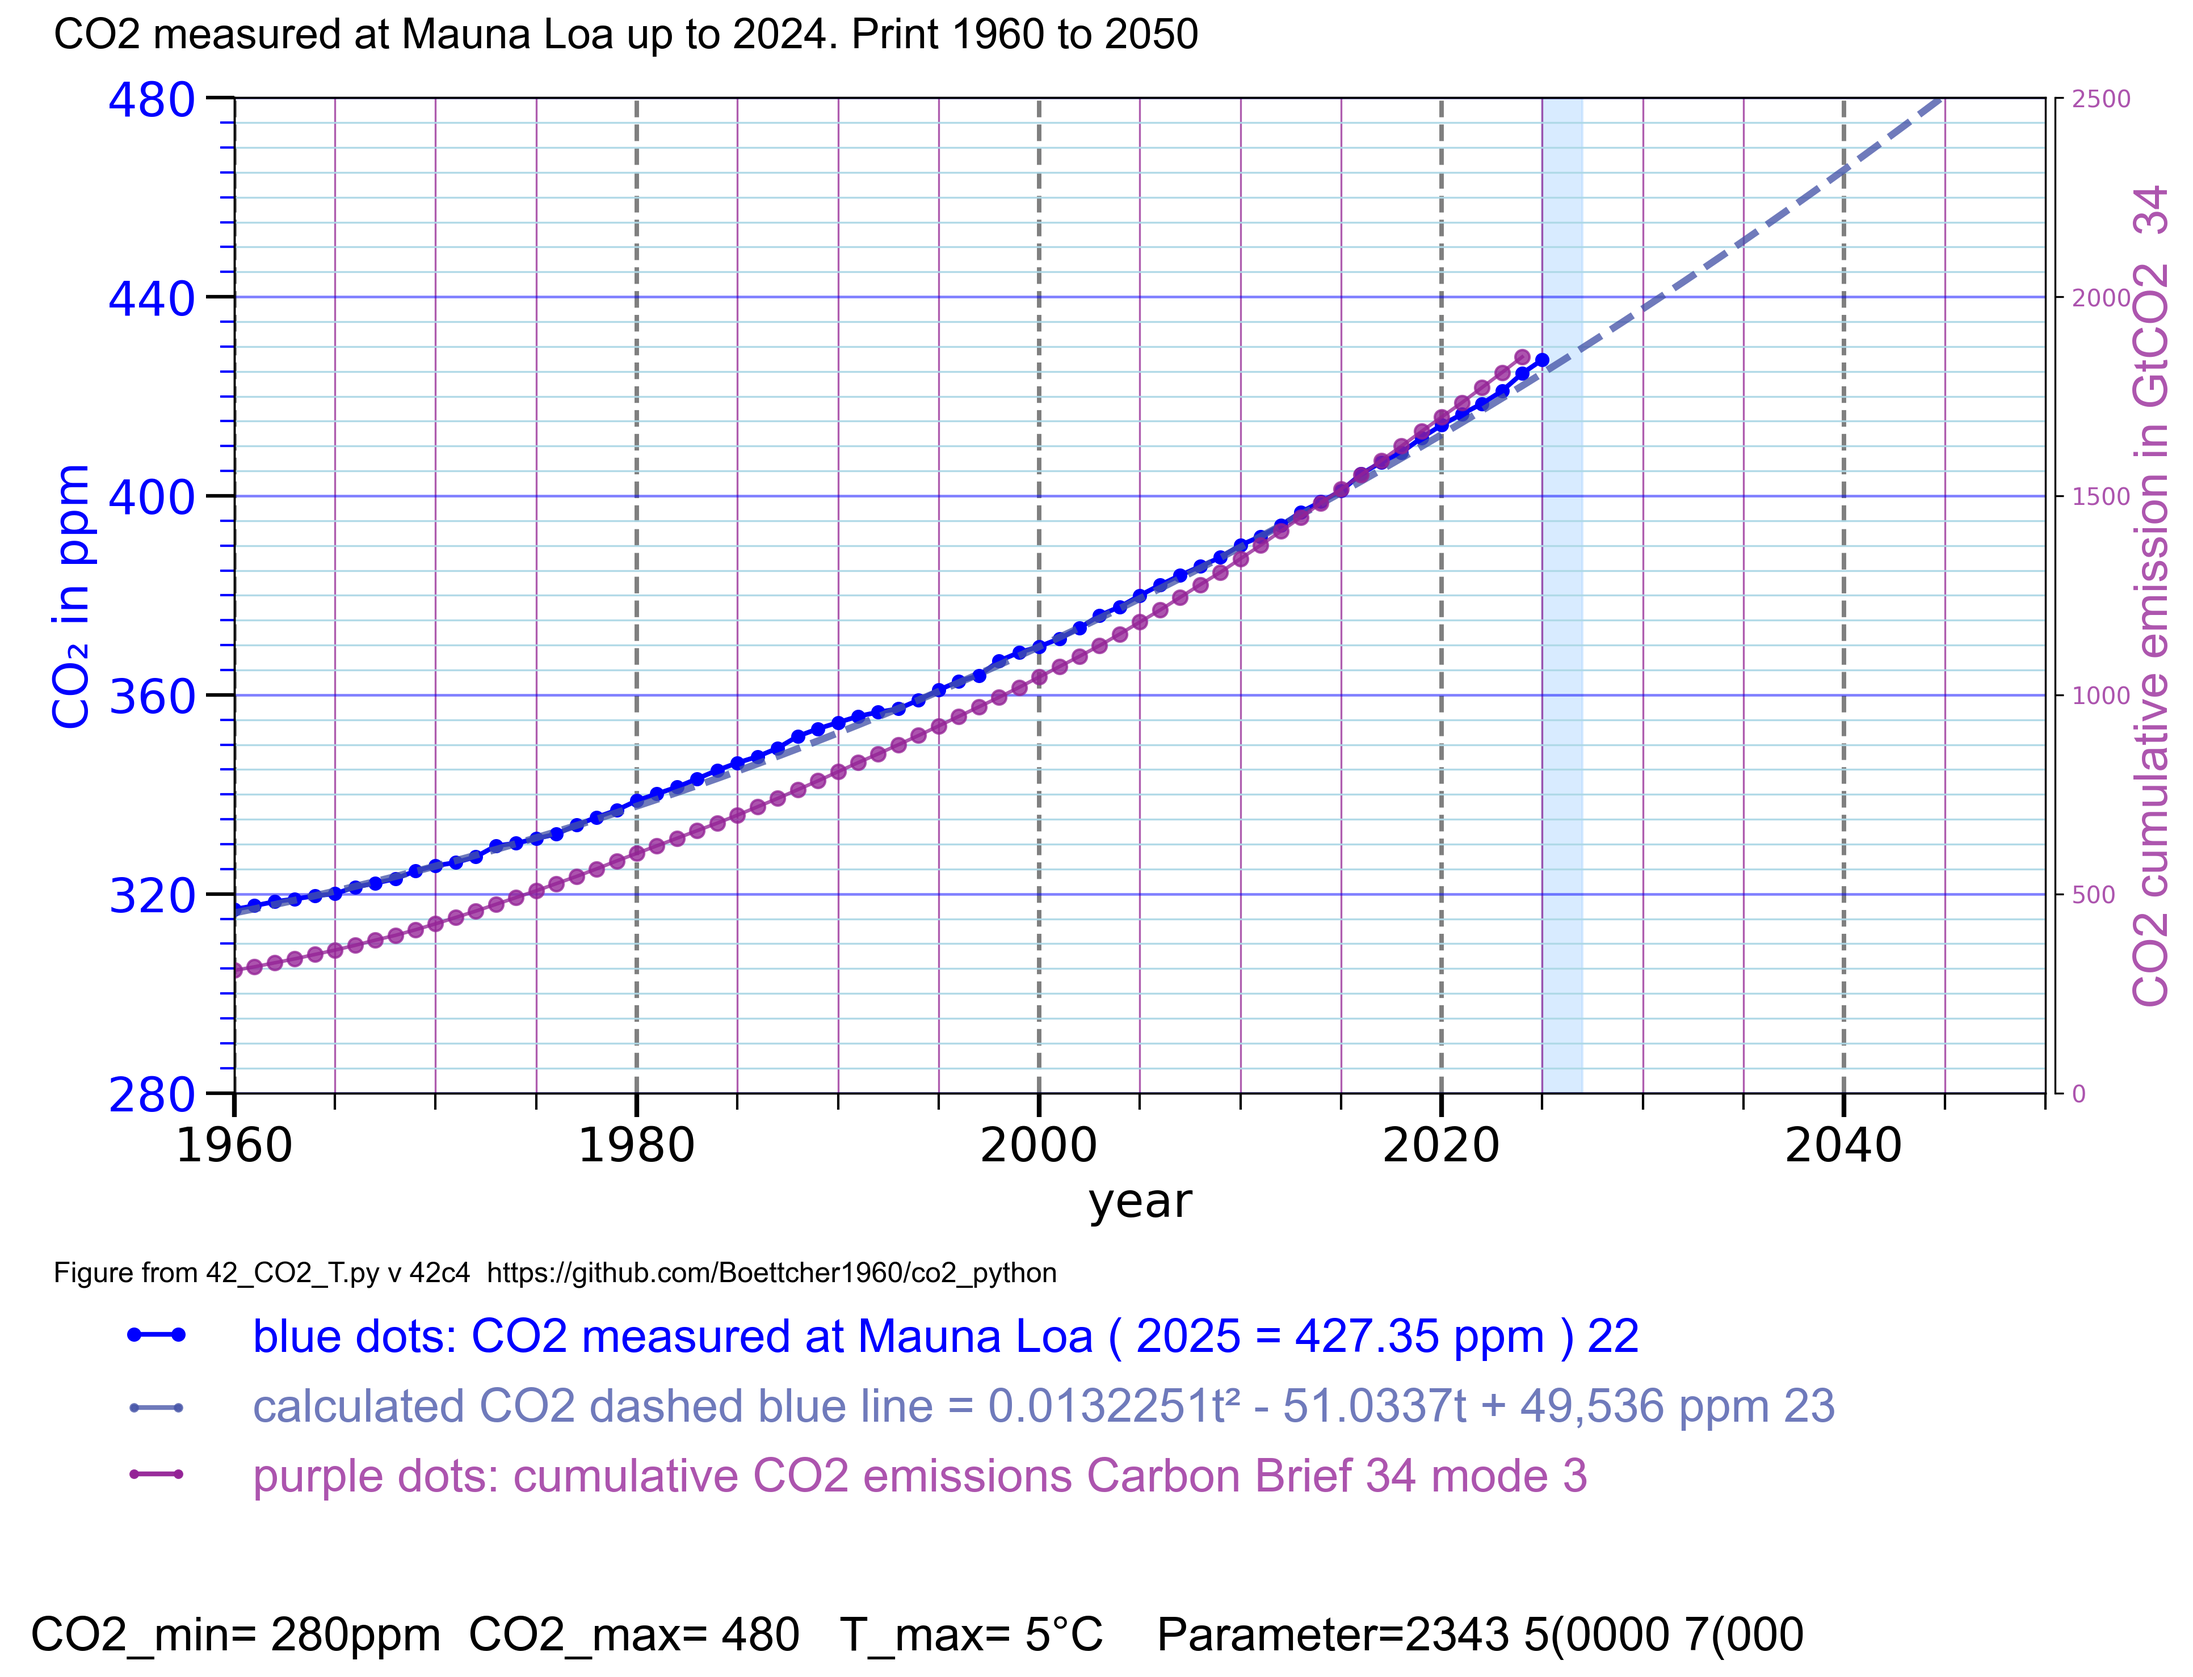
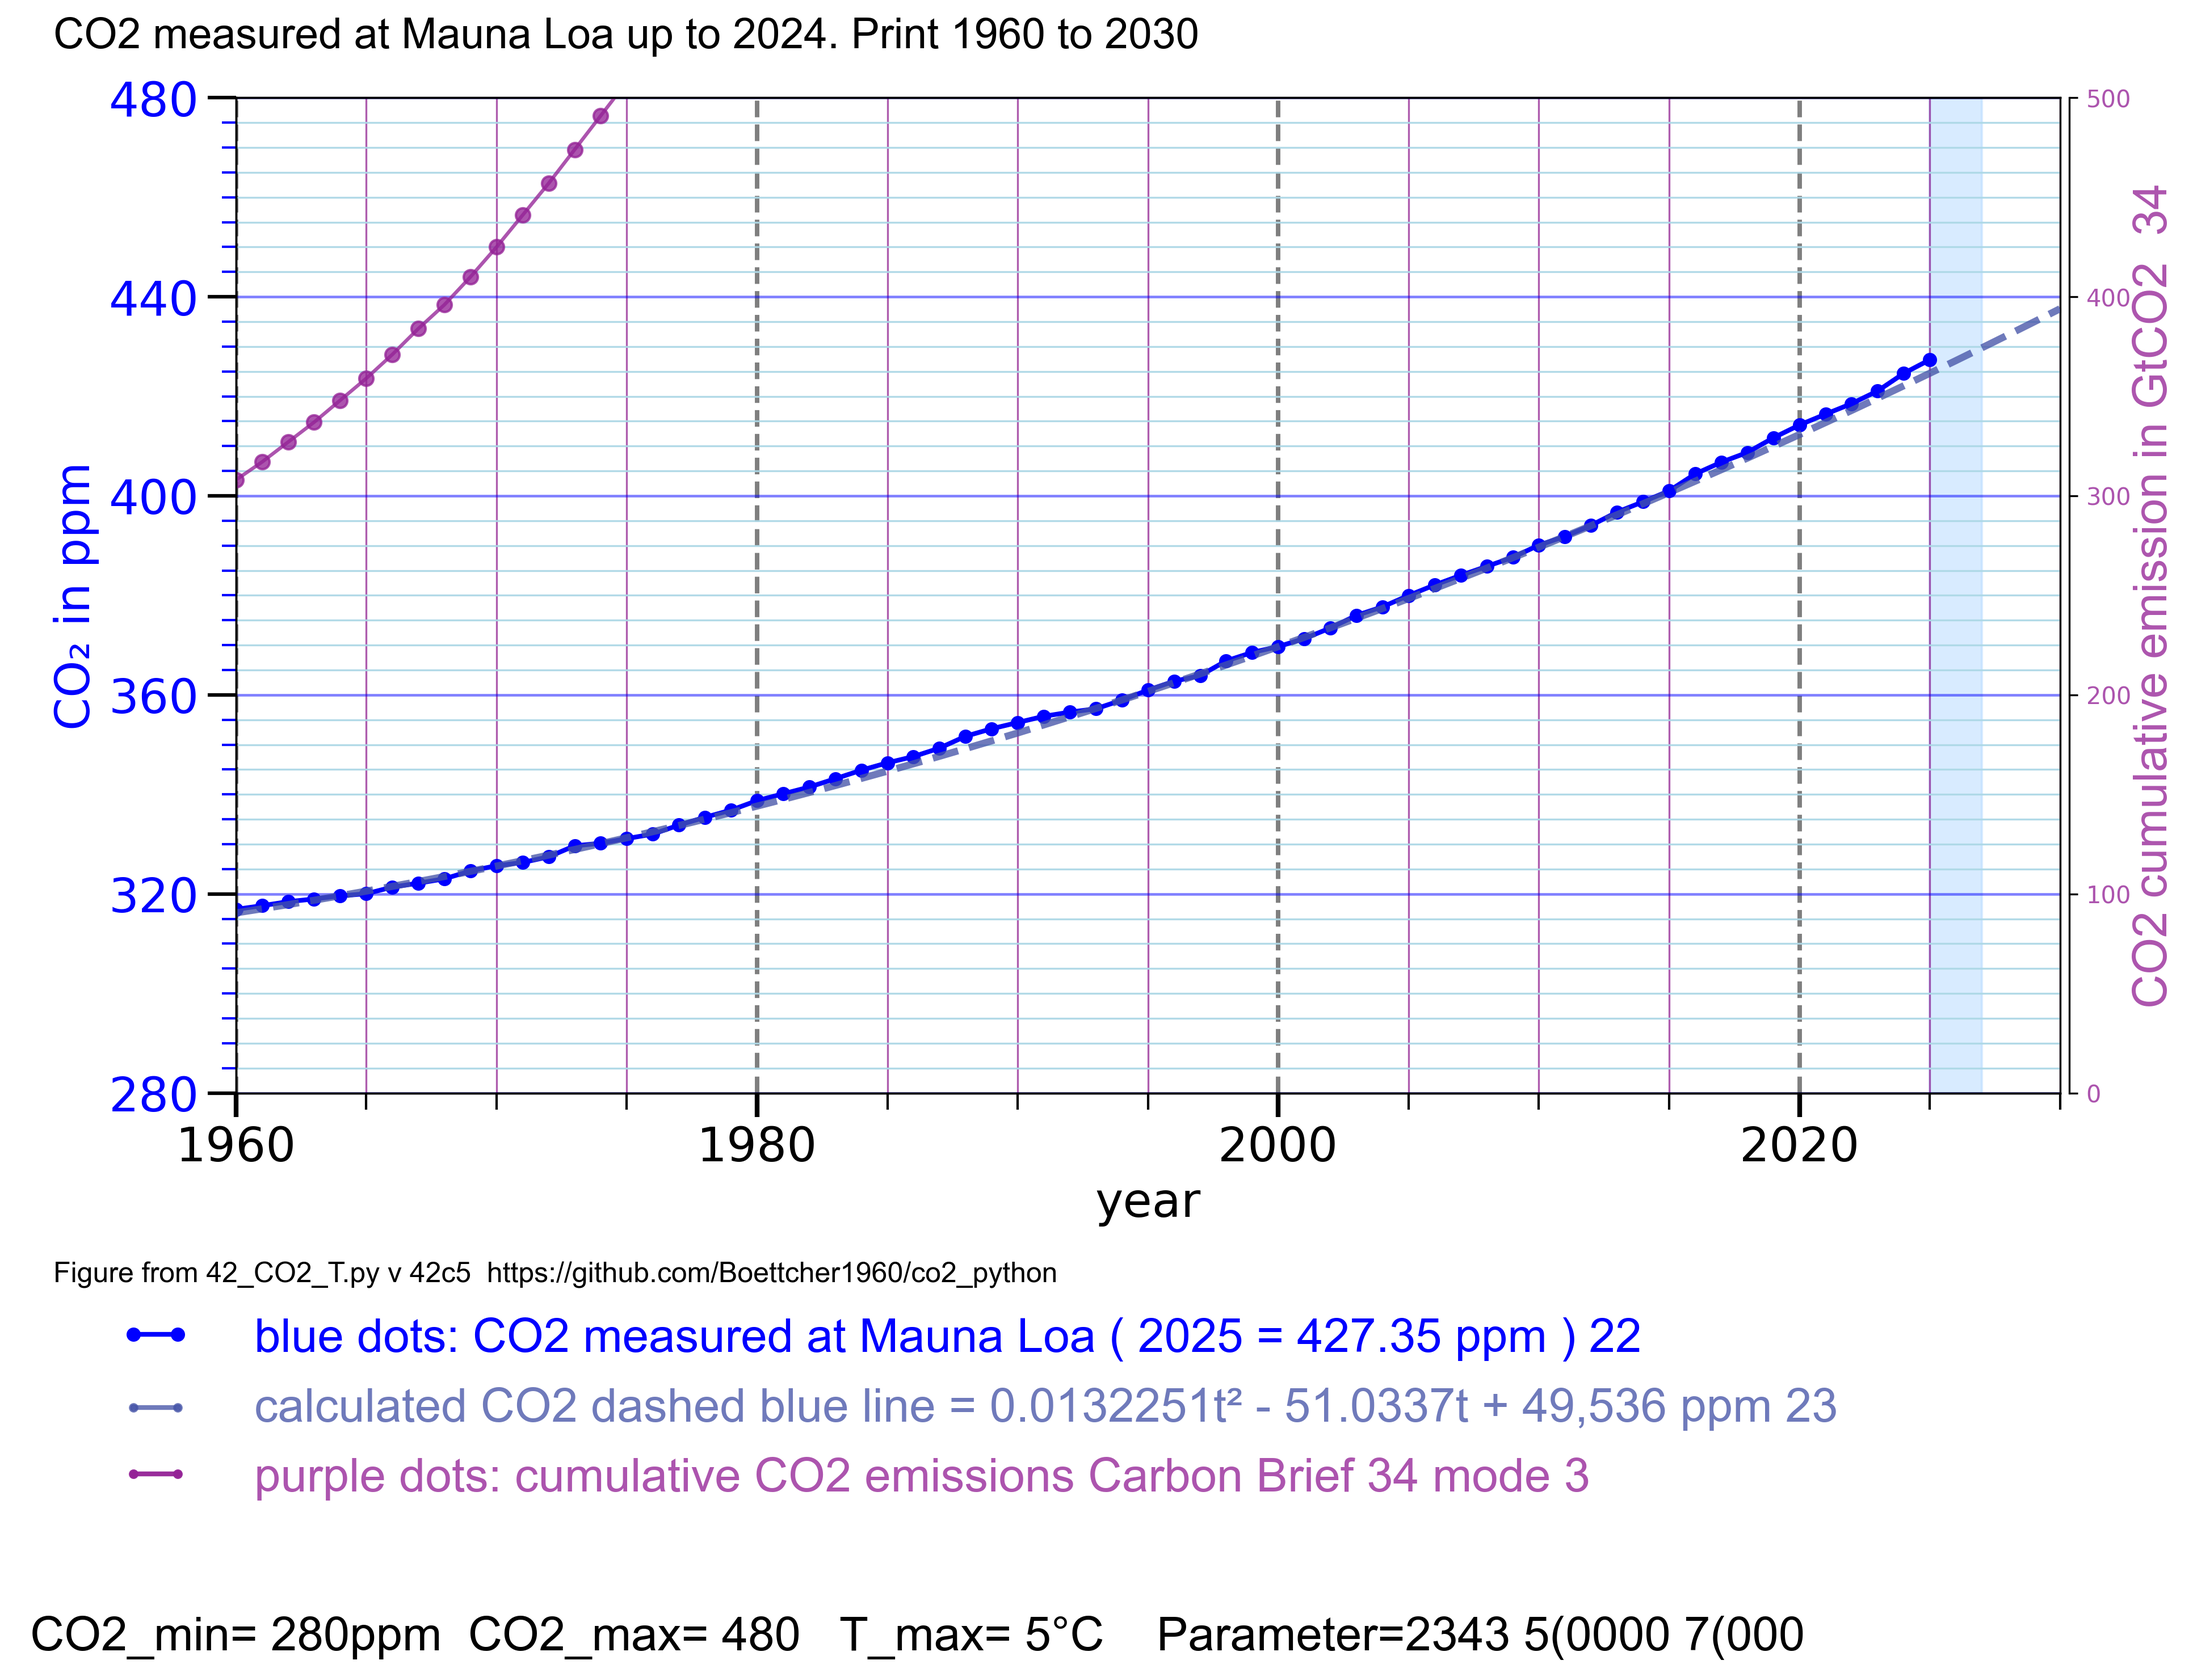
v = "42c5" # may be bug in scaling 3.4 plot34_CO2_emission summed

diff --git a/42_CO2_T.py b/42_CO2_T.py
@@ -1,5 +1,5 @@
 # 42_CO2_T.py 
-v = "42c4" # 3 curves
+v = "42c5" # may be bug in scaling 3.4 plot34_CO2_emission summed
 # Thomas Boettcher
 # part 1 configure 
 # part 2.2 plot CO2 Mauna Loa
@@ -71,7 +71,7 @@ y_Tmin = 0 # min value °C
 y_Tmax = 5 # 4 # max value C
 
 x_anf = 1960 # 1960 2000 
-x_end = 2050 # 2200 2026 
+x_end = 2030 # 2200 2026 
 
 # 1.4.5 scale the text rows below the plot field
 tr1x = -0.09 # text row 1 x value -.3...1 -0.12
@@ -137,8 +137,11 @@ years22 = list(range(1960, x_end))
 if x_anf < 1960:
    start = years22.index(1960)
 else:
-   start = years22.index(x_anf)    
-end = years22.index(2025) + 1
+   start = years22.index(x_anf)   
+if x_end > 2024:
+   end = years22.index(2025) + 1
+else: end = 20
+
 years22_subset = years22[start:end]
 # -----------------------------
 # 2.2.3 Kurve1 CO₂ Daten https://gml.noaa.gov/webdata/ccgg/trends/co2/co2_annmean_mlo.txt
@@ -688,7 +691,7 @@ if plot34_CO2_emission > 0:
    elif plot34_CO2_emission_mode == 3:
       ax34.plot(co2_sum_world["Year"], co2_sum_world["GCumulat"], marker="o",  color=c34, label="plot34_CO2_emission")
       ax34.tick_params(axis="y", labelcolor=c34)
-      ax34.set_ylim(0, 2500) # best scaling 2000 GtCO2
+      ax34.set_ylim(0, 500) # best scaling 2000 GtCO2
    elif plot34_CO2_emission_mode == 4:
       ax34.set_ylabel("cumulative emission in GtC  34 mode 4", color=c34,
                    fontname="Arial",fontsize=20,
